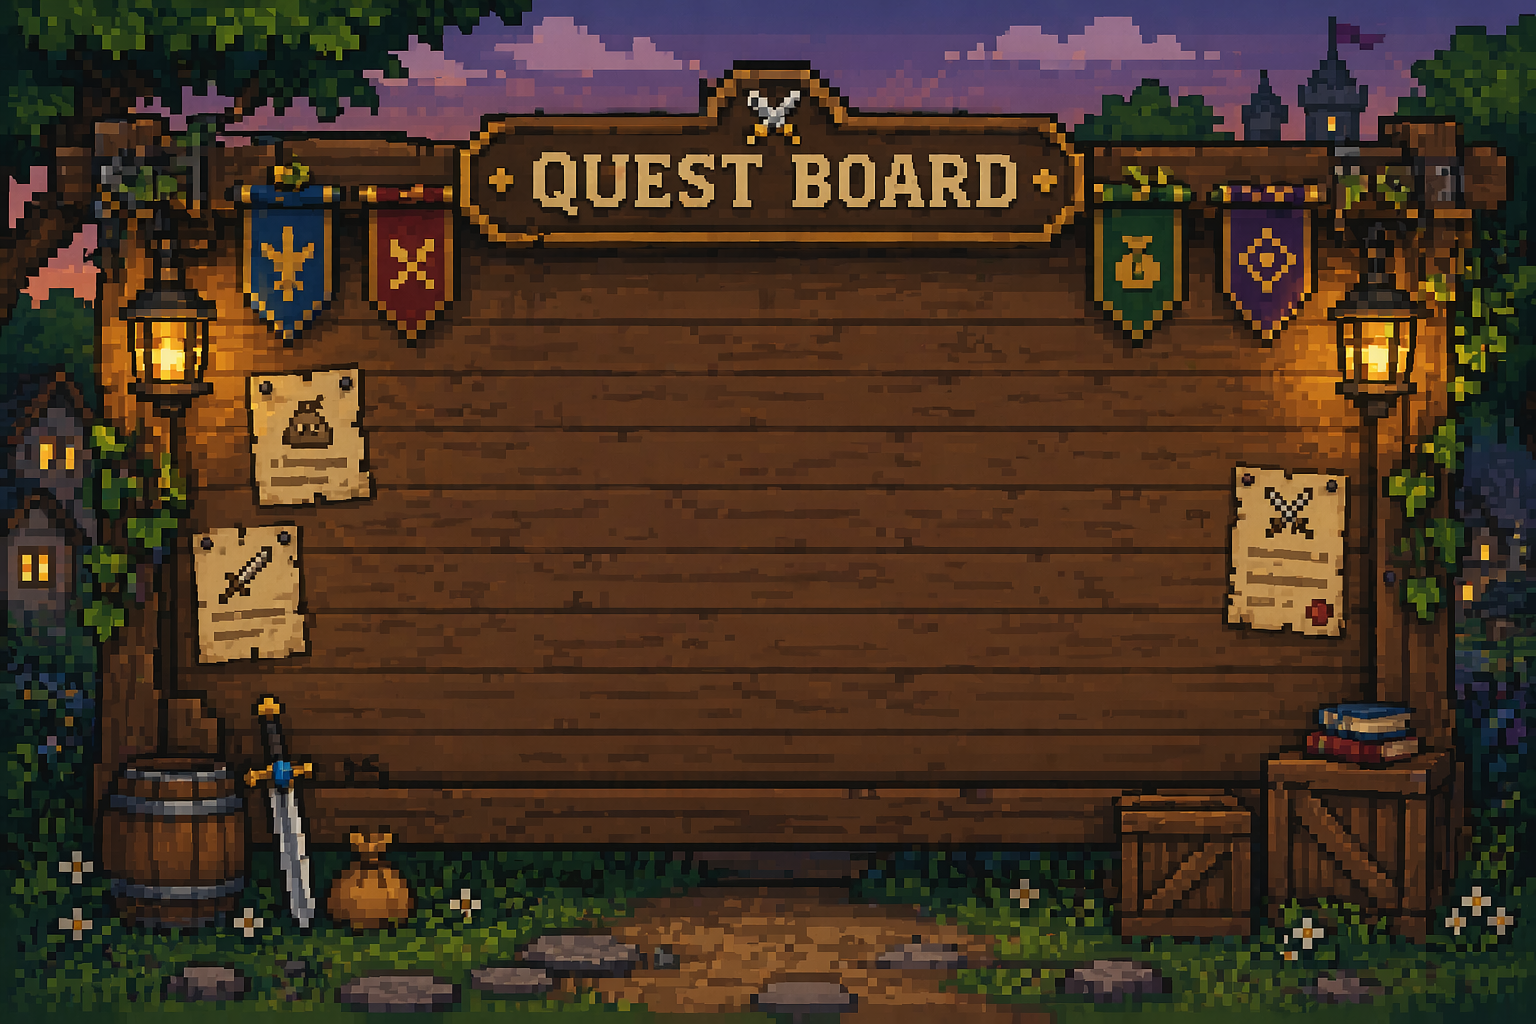
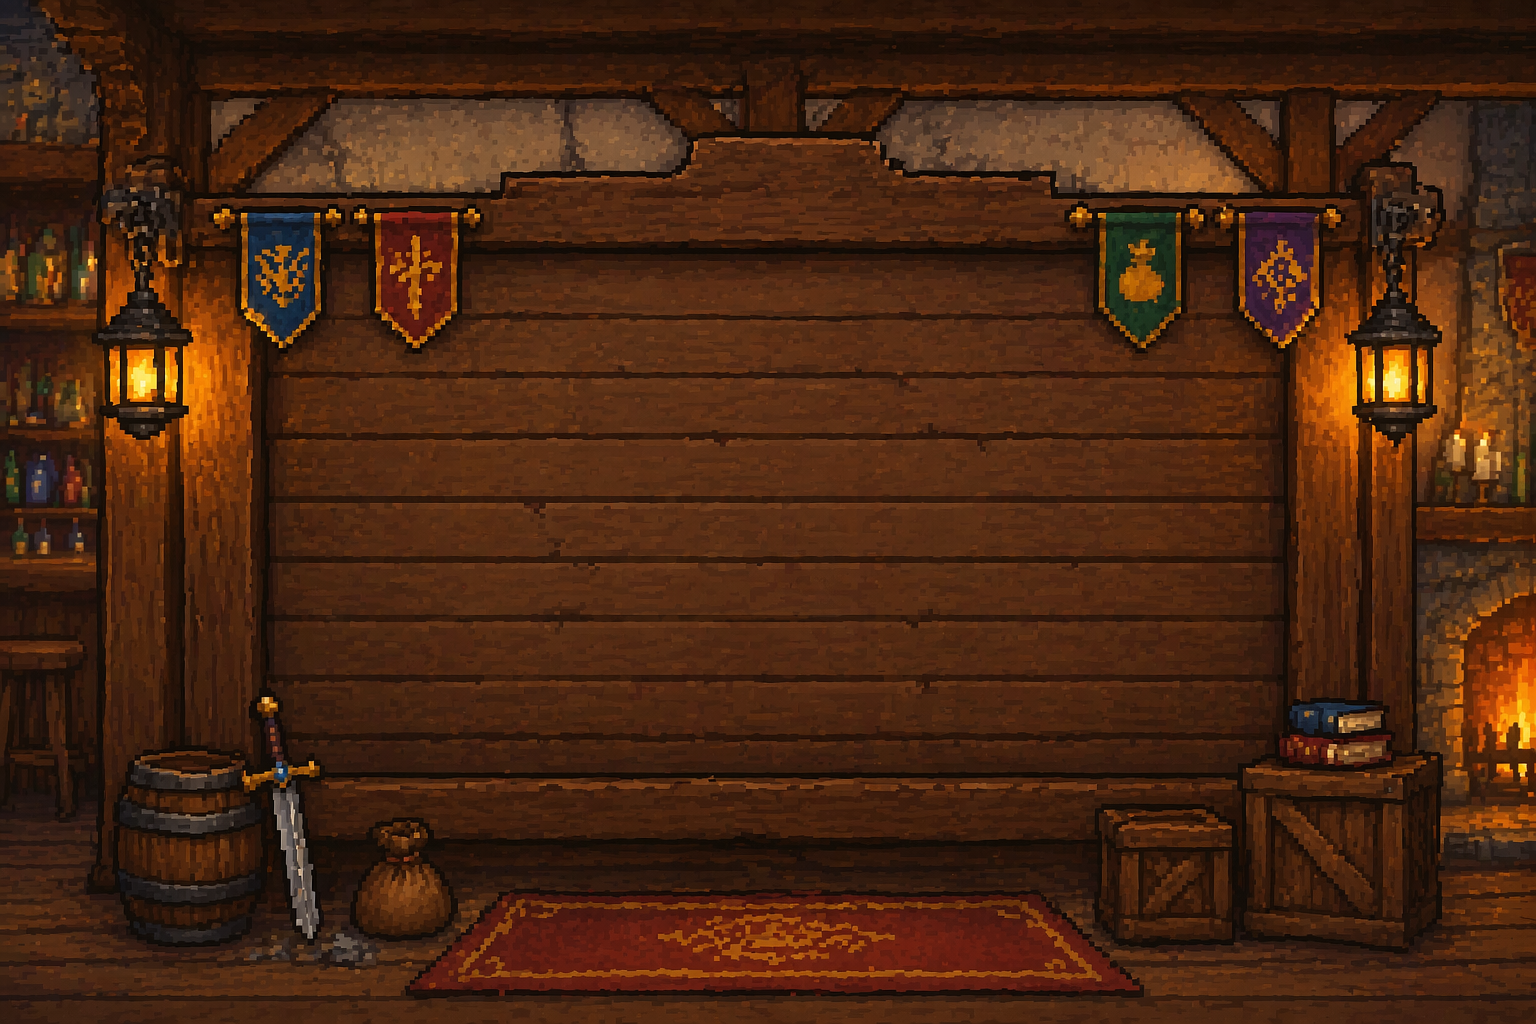
bg change

diff --git a/css/styles.css b/css/styles.css
@@ -11585,7 +11585,7 @@ textarea {
   font-family: 'Press Start 2P', monospace;
   background:
       linear-gradient(rgba(24, 10, 42, 0.78), rgba(10, 12, 24, 0.84)),
-      url("../assets/img/quest-bg.jpg") center/cover fixed no-repeat;
+      url("../assets/img/quest-bg.png") center/cover fixed no-repeat;
   color: #f5f1ff;
 }
 

diff --git a/index.php b/index.php
@@ -522,7 +522,7 @@ if ($leaderboard_result) {
         <footer class="footer py-4">
             <div class="container">
                 <div class="row align-items-center">
-                    <div class="col-lg-4 text-lg-start">Copyright &copy; Jesse Yu 2026</div>
+                    <div class="col-lg-4 text-lg-start">S1354052 Jesse Yu 2026</div>
                     <div class="col-lg-4 my-3 my-lg-0">
                     </div>
                     <div class="col-lg-4 text-lg-end">

diff --git a/quest_detail.php b/quest_detail.php
@@ -166,7 +166,7 @@ $can_submit = $can_participate
         }
 
         body {
-        background-image: url("./assets/img/quest-bg.jpg");
+        background-image: url("./assets/img/quest-bg.png");
         height: 100%;
         background-position: center;             /* Center the image within the viewport */
         background-repeat: no-repeat;            /* Prevent the image from repeating */

diff --git a/quest_list.php b/quest_list.php
@@ -74,7 +74,7 @@ $result = mysqli_stmt_get_result($stmt);
     <style>
         body, html { height: 100%; }
         body {
-            background-image: url("./assets/img/quest-bg.jpg");
+            background-image: url("./assets/img/quest-bg.png");
             background-position: center;
             background-repeat: no-repeat;
             background-size: cover;